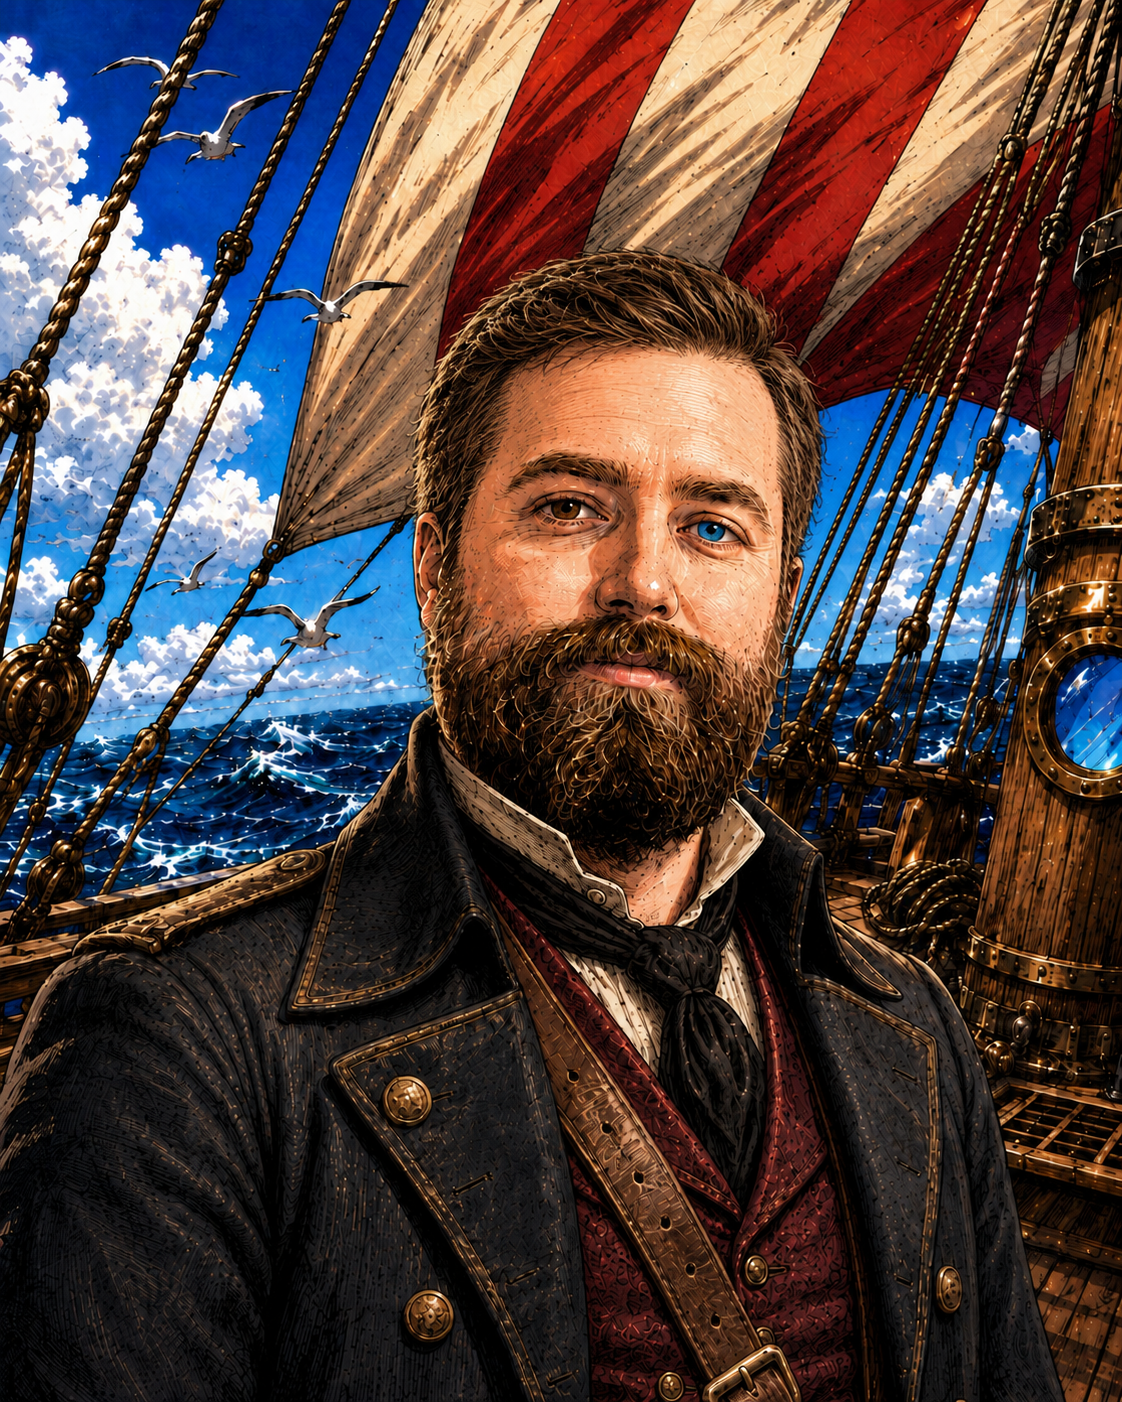
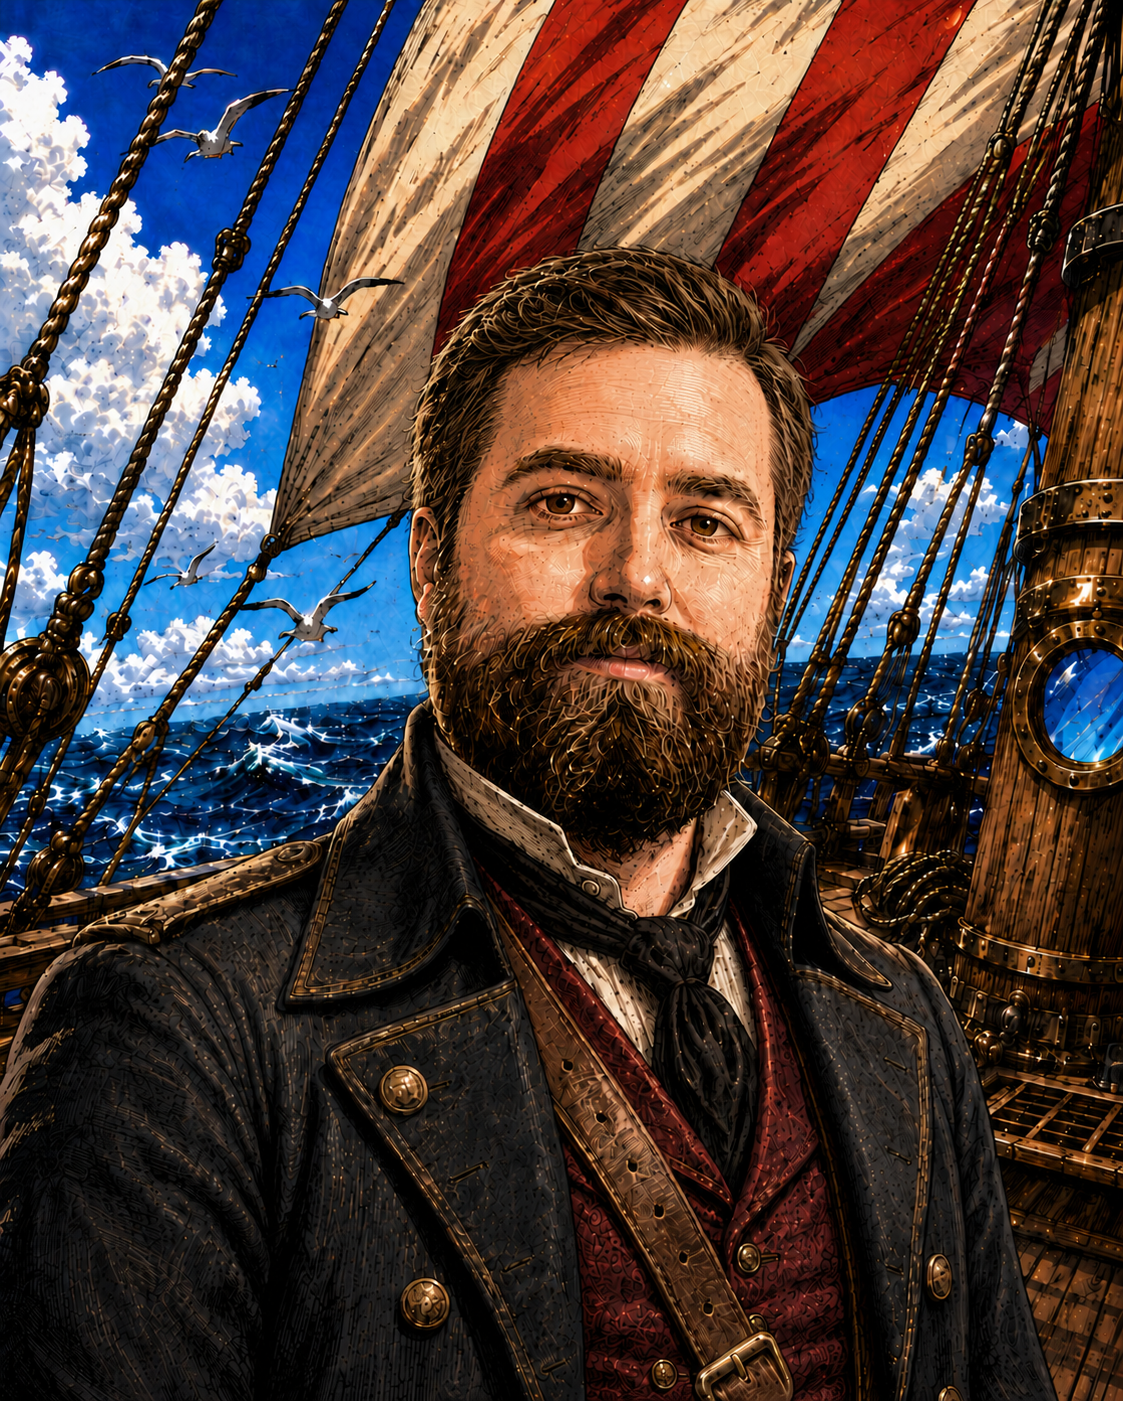
feat: update shared image upload warning and enhance map controls for pointer events

diff --git a/map.js b/map.js
@@ -576,20 +576,25 @@ function bindMapControls() {
     setMapZoom(state.mapView.zoom * factor, localX, localY);
   }, { passive: false });
 
-  viewport.addEventListener('mousedown', (event) => {
+  viewport.addEventListener('pointerdown', (event) => {
     if (!mapImageReady) return;
+    if (!event.isPrimary || (event.pointerType === 'mouse' && event.button !== 0)) return;
     if (event.target.closest('.marker')) return;
     mapPanState = {
+      pointerId: event.pointerId,
       startClientX: event.clientX,
       startClientY: event.clientY,
       startPanX: state.mapView.panX,
       startPanY: state.mapView.panY,
       moved: false
     };
+    try { viewport.setPointerCapture(event.pointerId); } catch {}
     viewport.classList.add('panning');
+    event.preventDefault();
   });
 
-  svg.addEventListener('mousedown', (event) => {
+  svg.addEventListener('pointerdown', (event) => {
+    if (!event.isPrimary || (event.pointerType === 'mouse' && event.button !== 0)) return;
     const target = event.target.closest('.marker');
     if (!target) return;
     const marker = state.mapMarkers.find((entry) => entry.id === target.dataset.id);
@@ -619,16 +624,18 @@ function bindMapControls() {
     const markerCanvasX = toCanvasX(marker.x, copyIndex);
     mapDragState = {
       id: marker.id,
+      pointerId: event.pointerId,
       offX: point.canvasX - markerCanvasX,
       offY: point.y - marker.y,
       moved: false
     };
+    try { svg.setPointerCapture(event.pointerId); } catch {}
     event.stopPropagation();
     event.preventDefault();
   });
 
-  window.addEventListener('mousemove', (event) => {
-    if (mapDragState) {
+  window.addEventListener('pointermove', (event) => {
+    if (mapDragState && event.pointerId === mapDragState.pointerId) {
       const point = viewportPointToMapPoint(event.clientX, event.clientY);
       const marker = state.mapMarkers.find((entry) => entry.id === mapDragState.id);
       if (!marker) return;
@@ -638,22 +645,23 @@ function bindMapControls() {
       renderMapMarkers();
       return;
     }
-    if (mapPanState) {
+    if (mapPanState && event.pointerId === mapPanState.pointerId) {
       state.mapView.panX = Math.round(mapPanState.startPanX + (event.clientX - mapPanState.startClientX));
       state.mapView.panY = Math.round(mapPanState.startPanY + (event.clientY - mapPanState.startClientY));
       mapPanState.moved = true;
       renderMapView();
+      event.preventDefault();
     }
   });
 
-  window.addEventListener('mouseup', () => {
-    if (mapDragState) {
+  const finishMapPointer = (event) => {
+    if (mapDragState && event.pointerId === mapDragState.pointerId) {
       if (!mapDragState.moved) openMapEditor(mapDragState.id);
       else mapSuppressPlacement = true;
       save();
       mapDragState = null;
     }
-    if (mapPanState) {
+    if (mapPanState && event.pointerId === mapPanState.pointerId) {
       viewport.classList.remove('panning');
       if (mapPanState.moved) {
         mapSuppressPlacement = true;
@@ -661,7 +669,9 @@ function bindMapControls() {
       }
       mapPanState = null;
     }
-  });
+  };
+  window.addEventListener('pointerup', finishMapPointer);
+  window.addEventListener('pointercancel', finishMapPointer);
 
   svg.addEventListener('click', (event) => {
     if (!mapImageReady) return;

diff --git a/app.js b/app.js
@@ -443,7 +443,7 @@ function showTab(name) {
 /* ===========================================================
    SHARED IMAGES
    =========================================================== */
-const MAX_SHARED_IMAGE_BYTES = 6 * 1024 * 1024;
+const SHARED_IMAGE_WARNING_BYTES = 6 * 1024 * 1024;
 const SHARED_IMAGE_CACHE = 'sea-trouble-shared-images-v1';
 const sharedImageMemoryCache = new Map();
 const sharedImageLoads = new Map();
@@ -592,9 +592,12 @@ function bindSharedImageGallery() {
       alert('Please choose an image file.');
       return;
     }
-    if (file.size > MAX_SHARED_IMAGE_BYTES) {
-      alert('Please choose an image smaller than 6 MB.');
-      return;
+    if (file.size > SHARED_IMAGE_WARNING_BYTES) {
+      const sizeMb = (file.size / (1024 * 1024)).toFixed(1);
+      const proceed = confirm(
+        `This image is ${sizeMb} MB. Large Base64 images use more Firebase bandwidth and may exceed Firebase Realtime Database's per-value limit. Upload anyway?`
+      );
+      if (!proceed) return;
     }
 
     const reader = new FileReader();

diff --git a/index.html b/index.html
@@ -11,7 +11,7 @@
 <title>The Devil's Ransom</title>
 <link rel="manifest" href="manifest.webmanifest" />
 <link rel="apple-touch-icon" sizes="192x192" href="assets/icon-192.png" />
-<link rel="stylesheet" href="styles.css?v=28" />
+<link rel="stylesheet" href="styles.css?v=29" />
 </head>
 <body>
 <div id="water-damage-overlay" class="water-damage-overlay" aria-hidden="true"></div>
@@ -515,8 +515,8 @@
 <script src="https://cdnjs.cloudflare.com/ajax/libs/three.js/r128/three.min.js"></script>
 <script src="firebase-config.js"></script>
 <script src="pdf-sheet.js?v=10"></script>
-<script src="app.js?v=47"></script>
-<script src="map.js"></script>
+<script src="app.js?v=48"></script>
+<script src="map.js?v=3"></script>
 <script src="sync.js?v=5"></script>
 </body>
 </html>

diff --git a/styles.css b/styles.css
@@ -1563,6 +1563,8 @@ ol.ref li, ul.ref li { margin: 3px 0; color: var(--ink); }
   inset: 0;
   overflow: hidden;
   cursor: grab;
+  touch-action: none;
+  overscroll-behavior: contain;
 }
 #map-viewport.panning { cursor: grabbing; }
 #map-canvas {
